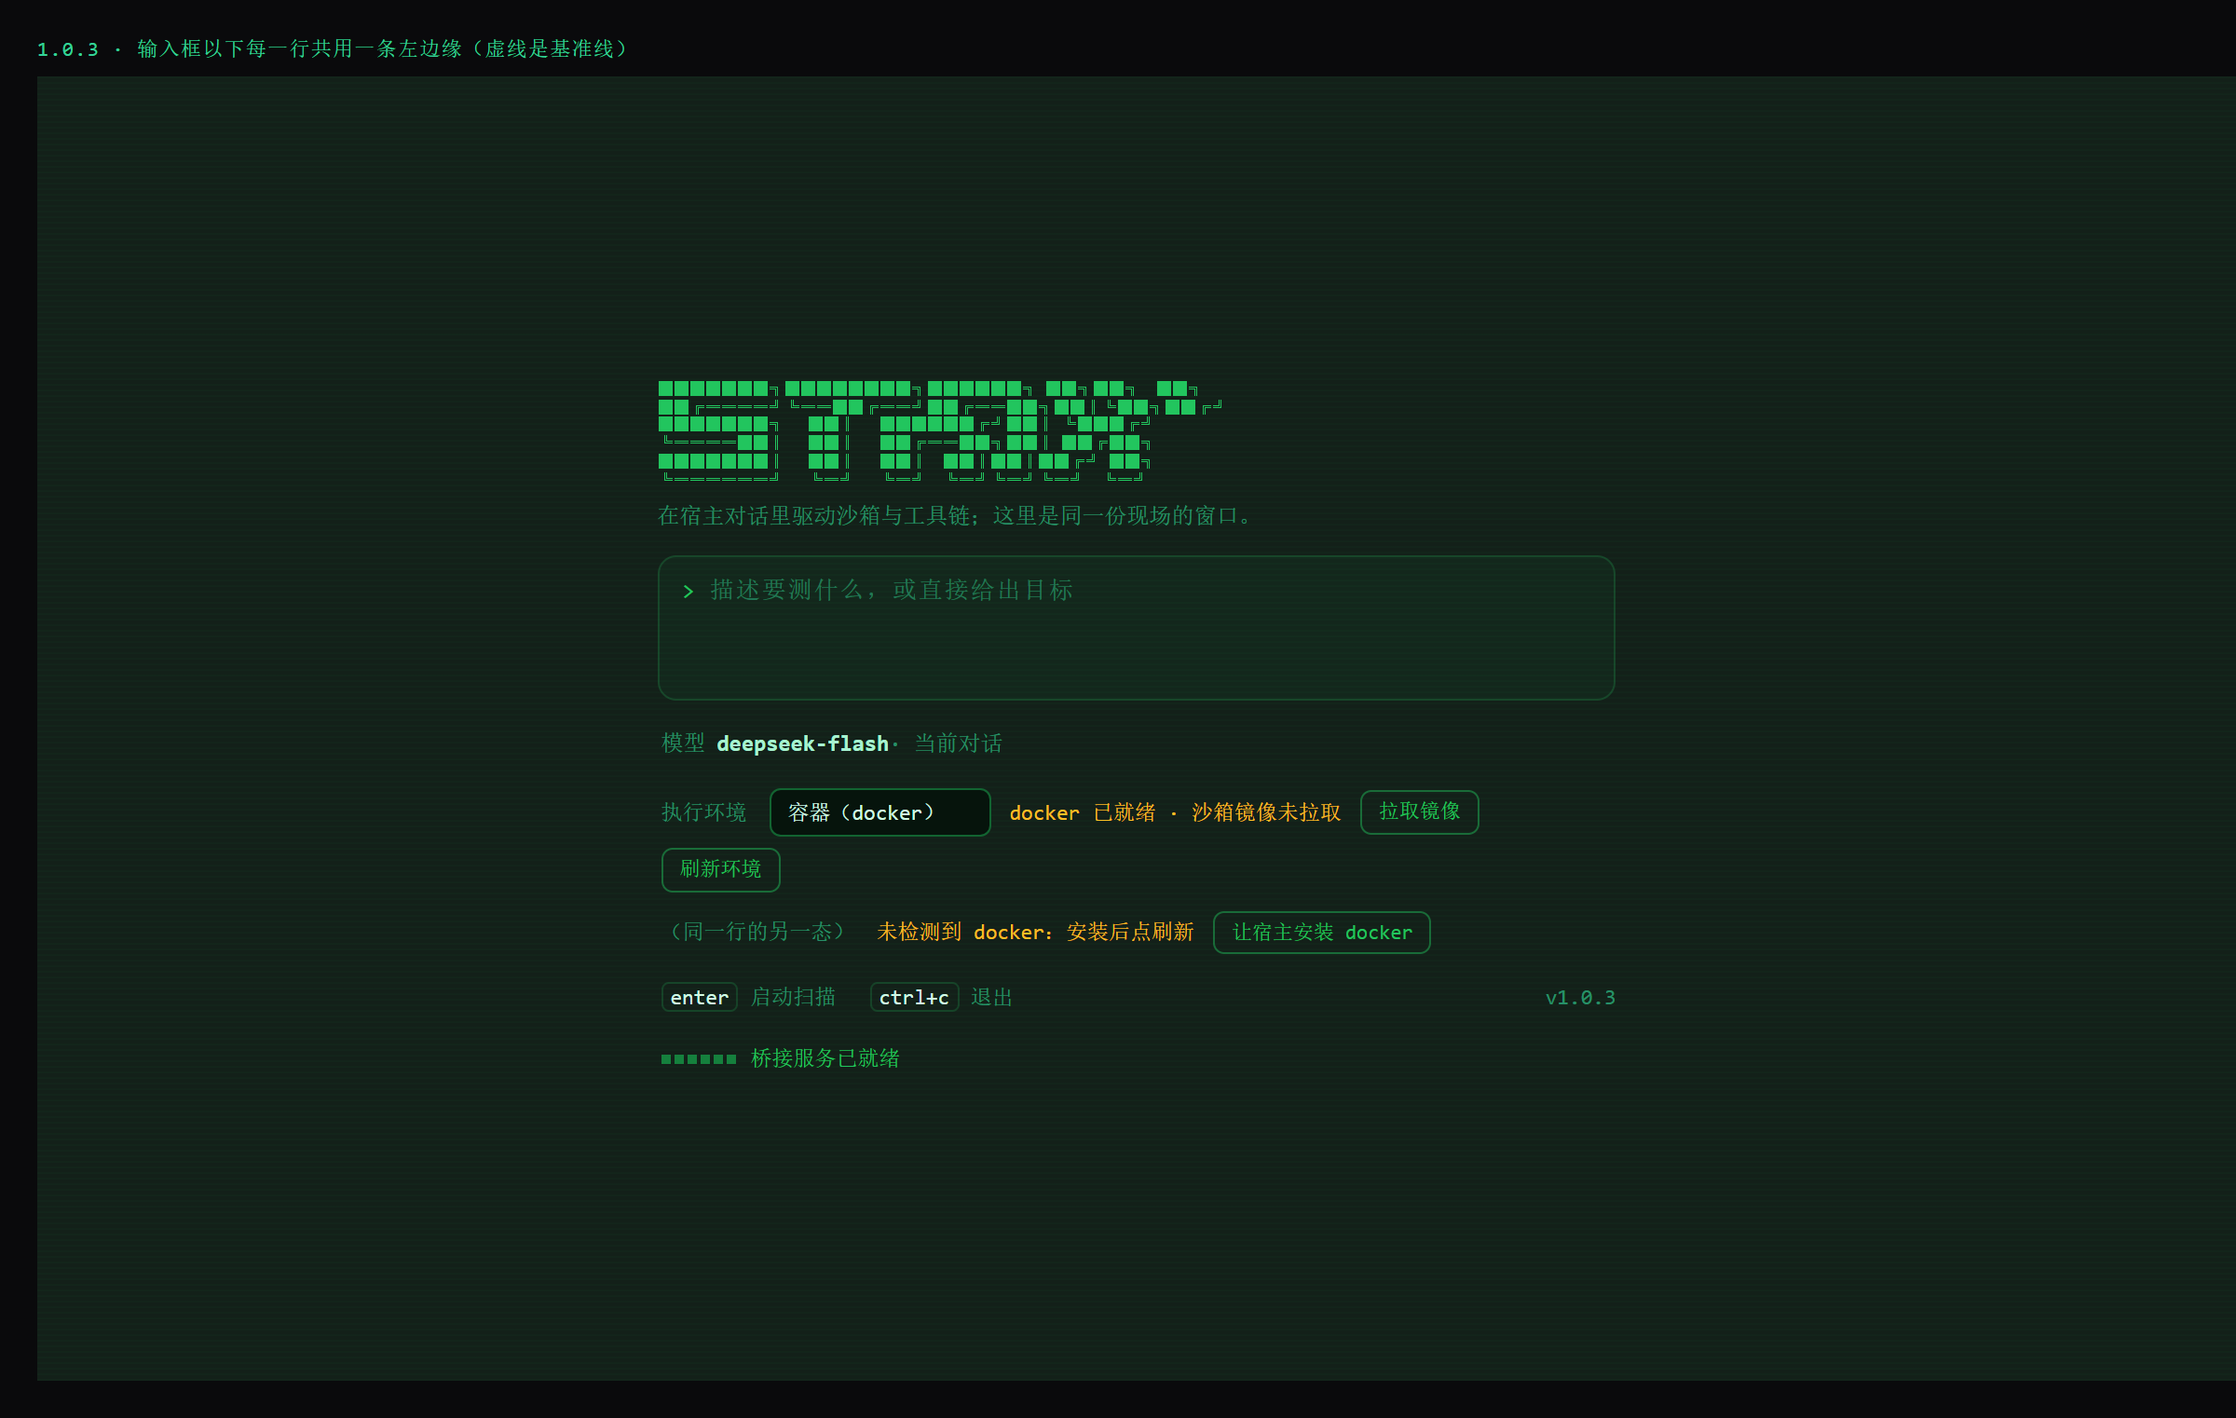
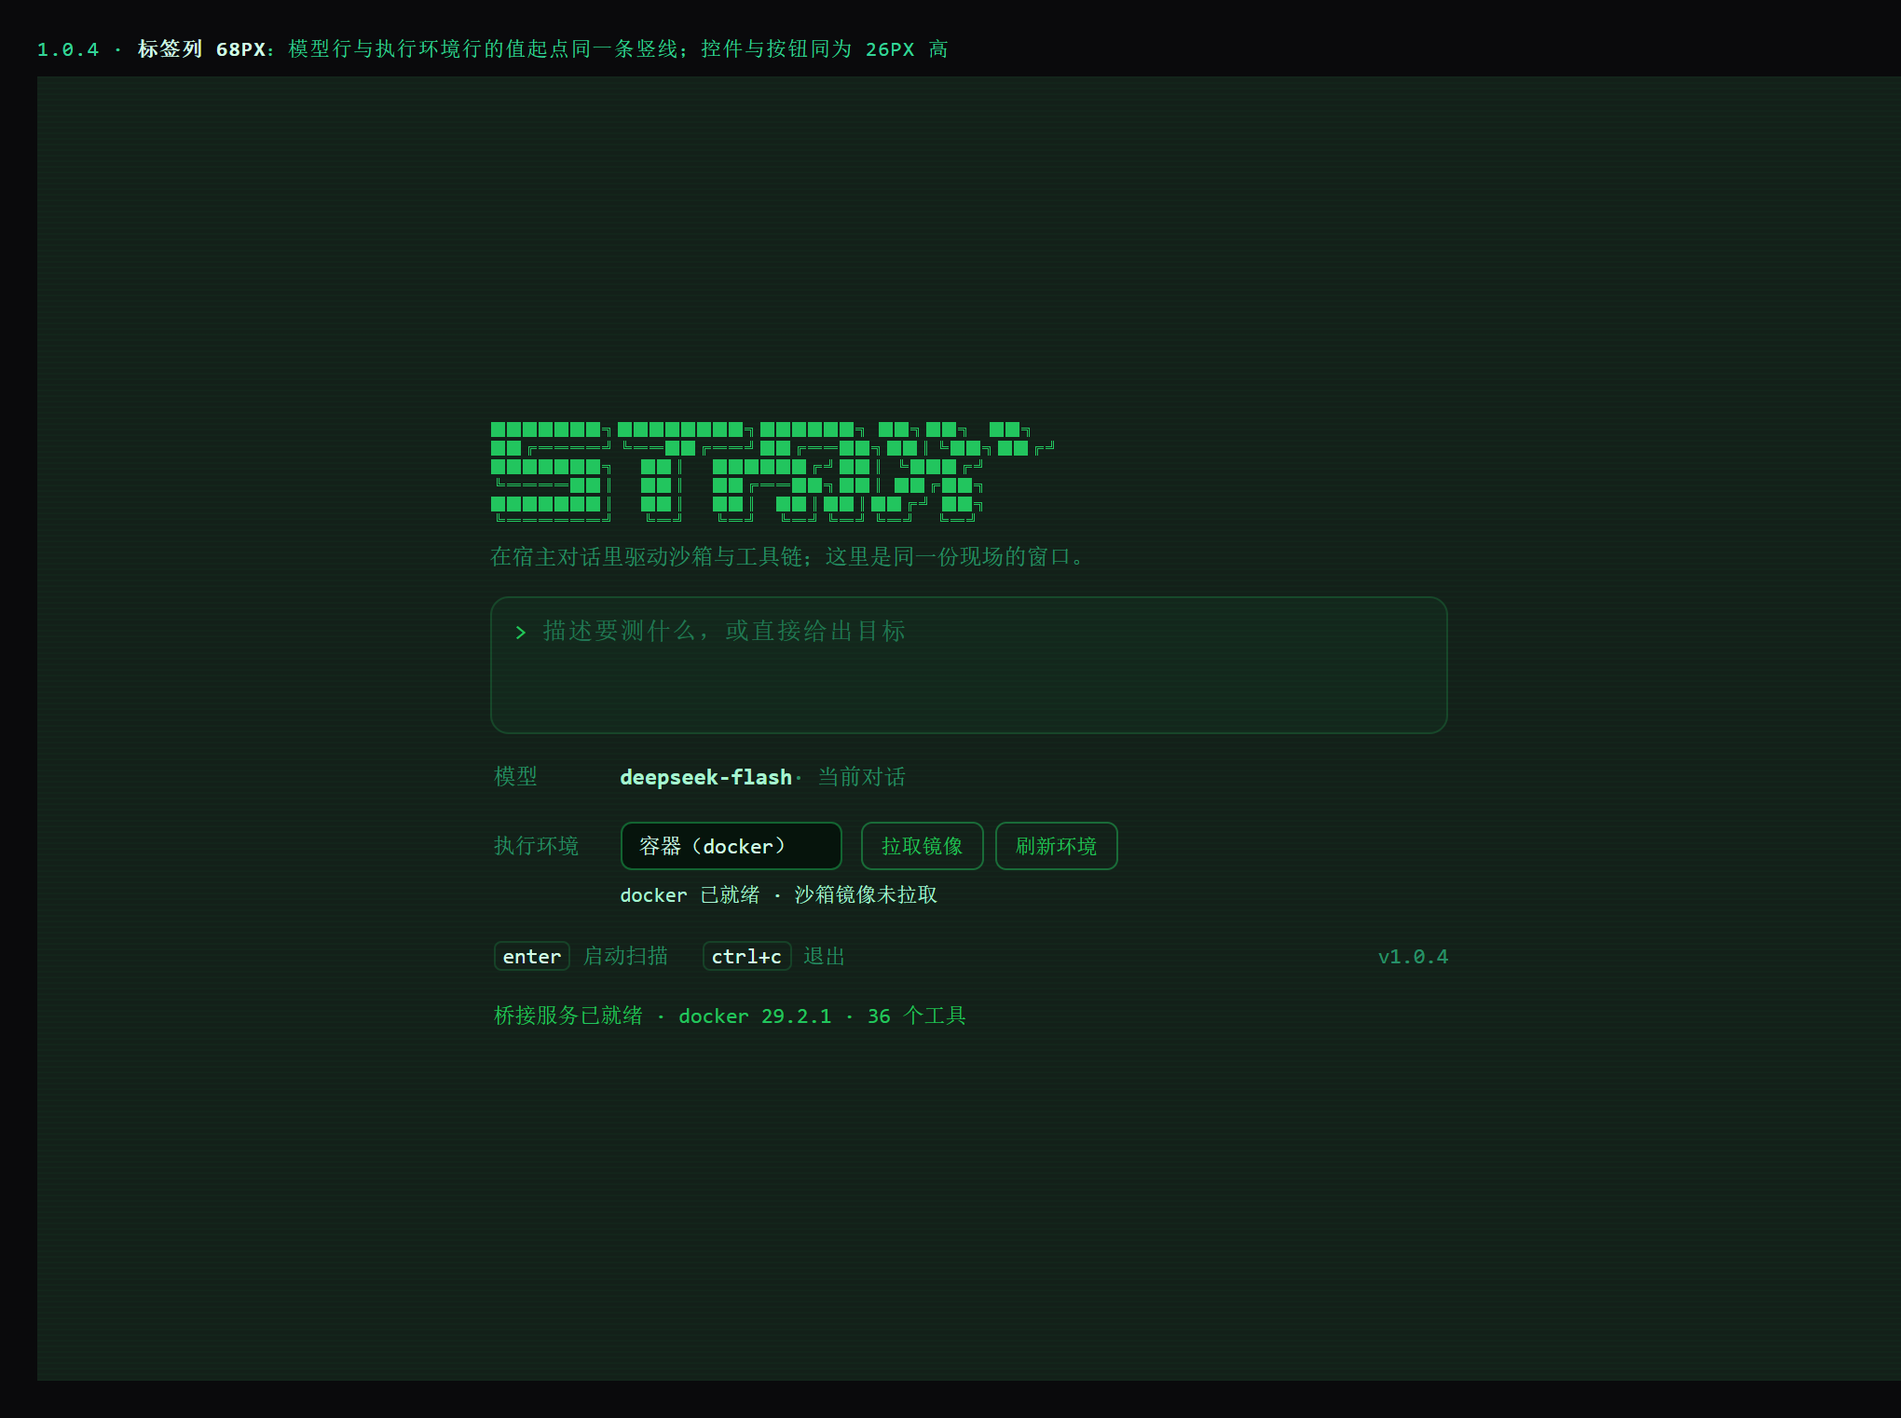
strix 1.0.4：环境行改成两行网格，标签列与控件高度统一
一、真机现象：「容器和文字不协调、没对齐、层次不齐」
- 原因有三，都在 1.0.3 的 flex 排布里：
  1. 一行 flex + wrap → 状态文字太长时「刷新环境」掉到下一行，形成参差的两行；
  2. select 的 padding 与按钮的 padding 不同 → 二者高度差 2px，基线看起来歪；
  3. 标签用 em 定宽，而 meta 行 12px、env 行 11.5px → 同样的 5.6em 差 7px，两行的值起点错开。

二、改法
- 环境行改成**两行网格**：
    「执行环境  [容器（docker）]   [拉取镜像] [刷新环境]」
    「          docker 已就绪 · 沙箱镜像未拉取      」
  标签列固定 `--sx-label-width: 68px`（用 px 不用 em），模型行与环境下拉共用这一列宽；
  状态用 `grid-column: 2 / -1` 落在控件下方、从控件左边缘开始。
- 列间距归零（`column-gap: 0`），动作按钮自己带 10px 左边距——否则 68 + 10 = 78px，
  比模型行的 68px 多出一截。
- 控件与按钮统一 `--sx-control-height: 26px`，按钮成组（`.astra-strix-env-actions`）不各自换行。
- 删掉 1.0.3 那套 flex 规则，避免两套并存。

三、真浏览器实测（dist/style.css，三种状态各一份）
  value column aligned: true | spread 0px（metaValueLeft 296 == selectLeft 296）
  controls equal height: true（select 26 / 按钮 26）
  buttons stay on one row: true（每态 buttonRows = 1）
  status aligned under the control: true（statusLeft == selectLeft，且在下拉下方）

验证
- fixes-1-0-3.test 扩到 15 项，新增 4 项守门：标签列必须是 px、网格不许有列间距、
  按钮同高且不换行、状态落第二列。
- tsc 干净；vitest 46 文件 298 项全绿；check-service tools=36；marketplace check 通过；
  node --test 165 pass；build + stamp verified；版本 1.0.4。
- 原型 docs/prototypes/strix-launch-aligned.html 重做（只保留一个真实的 noImage 态，
  不再用两行演示造成误读），截图同步更新。

diff --git a/docs/prototypes/strix-launch-aligned.html b/docs/prototypes/strix-launch-aligned.html
@@ -2,7 +2,7 @@
 <html lang="zh">
 <head>
 <meta charset="utf-8" />
-<title>Strix 首屏 · 对齐与环境下拉（1.0.3）</title>
+<title>Strix 首屏 · 对齐后的层级（1.0.4）</title>
 <style>
 	:root { --mono: ui-monospace, "SF Mono", Menlo, Consolas, monospace; }
 	* { box-sizing: border-box; }
@@ -14,12 +14,11 @@
 		--sx-dim: color-mix(in srgb, #34d399 62%, transparent);
 		--sx-placeholder: color-mix(in srgb, #34d399 46%, transparent);
 		--sx-rule: color-mix(in srgb, #22c55e 20%, transparent);
-		--sx-red: #f87171; --sx-amber: #fbbf24;
+		--sx-label-width: 68px; --sx-control-height: 26px;
 		position: relative; overflow: hidden;
-		width: 1180px; height: 700px; margin: 0 auto;
+		width: 1000px; height: 700px; margin: 0 auto;
 		background: color-mix(in srgb, #04120a 94%, #fff);
-		font-size: 13px; display: flex; flex-direction: column; padding: 24px;
-		color: var(--sx-text);
+		font-size: 13px; display: flex; flex-direction: column; padding: 24px; color: var(--sx-text);
 	}
 	.term::before { content: ""; position: absolute; inset: 0; pointer-events: none;
 		background-image: repeating-linear-gradient(to bottom, color-mix(in srgb, #22c55e 8%, transparent) 0 1px, transparent 1px 3px);
@@ -28,43 +27,46 @@
 
 	.launch { margin: auto; width: min(72ch, 100%); display: flex; flex-direction: column; gap: 14px; }
 	.launch > * { padding-left: 0; padding-right: 0; }
+
 	.mark { margin: 0; color: var(--sx-green); font-size: 8.5px; line-height: 1.15; white-space: pre; }
 	.tagline { margin: 6px 0 0; color: var(--sx-dim); font-size: 12px; }
 
 	.prompt { border: 1px solid var(--sx-rule); border-radius: 10px; padding: 10px 12px;
-		background: color-mix(in srgb, #22c55e 4%, transparent); display: flex; flex-direction: column; gap: 6px; }
+		background: color-mix(in srgb, #22c55e 4%, transparent); }
 	.prompt-row { display: flex; gap: 8px; align-items: flex-start; }
 	.caret { color: var(--sx-green); }
-	.input { flex: 1; min-height: 56px; color: var(--sx-placeholder); }
+	.input { flex: 1; min-height: 52px; color: var(--sx-placeholder); }
 
 	.meta, .env, .hints, .boot { margin: 0; padding-left: 2px; line-height: 1.6; }
+
 	.meta { display: flex; align-items: baseline; font-size: 12px; }
-	.meta-label { color: var(--sx-dim); margin-right: 6px; }
+	.meta-label, .env-label { display: inline-block; min-width: var(--sx-label-width); color: var(--sx-dim); }
 	.meta-name { color: var(--sx-text); font-weight: 600; }
 	.dim { color: var(--sx-dim); }
 
-	.env { display: flex; flex-wrap: wrap; align-items: center; gap: 6px 10px; font-size: 11.5px; }
-	.env-label { color: var(--sx-dim); margin-right: 2px; }
-	select { appearance: none; padding: 3px 24px 3px 9px; border: 1px solid color-mix(in srgb, var(--sx-green) 45%, transparent);
-		border-radius: 6px; background-color: color-mix(in srgb, #04120a 88%, transparent); color: #d1fae5;
-		font: inherit; font-size: 11.5px; }
-	.env-status { color: var(--sx-amber); }
+	.env { display: grid; grid-template-columns: var(--sx-label-width) auto minmax(0, 1fr);
+		align-items: center; column-gap: 0; row-gap: 6px; font-size: 11.5px; }
+	select { appearance: none; height: var(--sx-control-height); padding: 0 24px 0 9px;
+		border: 1px solid color-mix(in srgb, var(--sx-green) 45%, transparent); border-radius: 6px;
+		background-color: color-mix(in srgb, #04120a 88%, transparent); color: #d1fae5;
+		font: inherit; font-size: 11.5px; line-height: 1; }
+	.env-actions { display: flex; flex-wrap: wrap; align-items: center; gap: 6px; justify-self: start; margin-left: 10px; }
+	.action { display: inline-flex; align-items: center; height: var(--sx-control-height); padding: 0 10px;
+		border: 1px solid color-mix(in srgb, var(--sx-green) 45%, transparent); border-radius: 6px;
+		background: transparent; color: var(--sx-green); font: inherit; font-size: 11px; line-height: 1; white-space: nowrap; }
+	.env-status { grid-column: 2 / -1; color: var(--sx-amber); font-size: 11px; line-height: 1.5; }
 	.env[data-state="ready"] .env-status { color: var(--sx-green); }
-	.action { padding: 2px 9px; border: 1px solid color-mix(in srgb, var(--sx-green) 45%, transparent);
-		border-radius: 6px; background: transparent; color: var(--sx-green); font: inherit; font-size: 11px; }
 
 	.hints { display: flex; gap: 18px; font-size: 11.5px; color: var(--sx-dim); align-items: baseline; }
 	.key { color: var(--sx-white); border: 1px solid var(--sx-rule); border-radius: 4px; padding: 0 4px; }
 	.boot { font-size: 11.5px; color: var(--sx-green); }
-	.sweep { display: inline-flex; gap: 2px; margin-right: 8px; vertical-align: middle; }
-	.sweep > span { width: 5px; height: 5px; background: #15803d; }
 
-	.guide { position: absolute; left: 24px; top: 0; bottom: 0; width: 1px; border-left: 1px dashed #22c55e44; z-index: 2; }
-	.caption { width: 1180px; margin: 0 auto 8px; color: #34d399; font-size: 11px; letter-spacing: .06em; text-transform: uppercase; }
+	.caption { width: 1000px; margin: 0 auto 8px; color: #34d399; font-size: 11px; letter-spacing: .06em; text-transform: uppercase; }
+	.caption b { color: #d1fae5; font-weight: 600; }
 </style>
 </head>
 <body>
-	<div class="caption">1.0.3 · 输入框以下每一行共用一条左边缘（虚线是基准线）</div>
+	<div class="caption">1.0.4 · <b>标签列 68px</b>：模型行与执行环境行的值起点同一条竖线；控件与按钮同为 26px 高</div>
 	<div class="term">
 		<div class="launch">
 			<div>
@@ -86,20 +88,13 @@
 			<div class="env" data-state="noImage">
 				<span class="env-label">执行环境</span>
 				<select><option>容器（docker）</option></select>
+				<span class="env-actions"><button class="action">拉取镜像</button><button class="action">刷新环境</button></span>
 				<span class="env-status">docker 已就绪 · 沙箱镜像未拉取</span>
-				<button class="action">拉取镜像</button>
-				<button class="action">刷新环境</button>
 			</div>
 
-			<div class="env" data-state="noDocker" style="margin-top:-4px">
-				<span class="env-label">（同一行的另一态）</span>
-				<span class="env-status">未检测到 docker：安装后点刷新</span>
-				<button class="action">让宿主安装 docker</button>
-			</div>
+			<div class="hints"><span><span class="key">enter</span> 启动扫描</span><span><span class="key">ctrl+c</span> 退出</span><span class="dim" style="margin-left:auto">v1.0.4</span></div>
 
-			<div class="hints"><span><span class="key">enter</span> 启动扫描</span><span><span class="key">ctrl+c</span> 退出</span><span class="dim" style="margin-left:auto">v1.0.3</span></div>
-
-			<p class="boot"><span class="sweep"><span></span><span></span><span></span><span></span><span></span><span></span></span>桥接服务已就绪</p>
+			<p class="boot">桥接服务已就绪 · docker 29.2.1 · 36 个工具</p>
 		</div>
 	</div>
 </body>

diff --git a/abilities/plugins/strix/src/style.css b/abilities/plugins/strix/src/style.css
@@ -1615,9 +1615,11 @@
 	color: var(--sx-amber);
 }
 
+/* 标签列宽与环境下拉的标签列共用一个变量：两行的值起点才会在一条竖线上。 */
 .astra-strix-meta-label {
+	display: inline-block;
+	min-width: var(--sx-label-width, 68px);
 	color: var(--sx-dim);
-	margin-right: 6px;
 }
 
 .astra-strix-meta-name {
@@ -1640,30 +1642,49 @@
 }
 
 /* ---- 环境下拉：三态（host / 缺 docker / 缺镜像 / 就绪） ----------------------
-   之前 select 背景透明压在绿色上，字看不清。现在给它自己的深色底与亮字，
-   原生下拉列表也用同一套色（option 单独设，否则展开后是系统白底深字）。 */
+   排布改成两行网格，而不是一条会换行的 flex：
+     「执行环境  [容器（docker）]        [拉取镜像] [刷新环境]」
+     「          docker 已就绪 · 沙箱镜像未拉取                」
+   为什么：flex 换行时"刷新环境"会掉到下一行、按钮与下拉高矮不一，看起来层次不齐（真机截图）。
+   标签列用固定宽度，与上面"模型"那一行的值起点对齐。 */
+.astra-strix-launch {
+	/* 用 px 而不是 em：em 按各自字号解析，两个标签的字号不同会错开 7px。 */
+	--sx-label-width: 68px;
+	--sx-control-height: 26px;
+}
+
+.astra-strix-meta-label,
+.astra-strix-env-label {
+	display: inline-block;
+	min-width: var(--sx-label-width);
+	color: var(--sx-dim);
+}
+
 .astra-strix-env {
-	display: flex;
-	flex-wrap: wrap;
+	display: grid;
+	grid-template-columns: var(--sx-label-width) auto minmax(0, 1fr);
 	align-items: center;
-	gap: 6px 10px;
+	/* 列间距必须为 0：否则 68px 标签列 + 10px gap = 78px，比模型行的 68px 多出一截。 */
+	column-gap: 0;
+	row-gap: 6px;
 	font-size: 11.5px;
 }
 
 .astra-strix-env-label {
-	color: var(--sx-dim);
-	margin-right: 2px;
+	margin: 0;
 }
 
 .astra-strix-env-select {
 	appearance: none;
-	padding: 3px 24px 3px 9px;
+	height: var(--sx-control-height);
+	padding: 0 24px 0 9px;
 	border: 1px solid color-mix(in srgb, var(--sx-green) 45%, transparent);
 	border-radius: 6px;
 	background-color: color-mix(in srgb, #04120a 88%, transparent);
 	color: var(--sx-white, #d1fae5);
 	font: inherit;
 	font-size: 11.5px;
+	line-height: 1;
 	cursor: pointer;
 	background-image: linear-gradient(45deg, transparent 50%, var(--sx-green) 50%),
 		linear-gradient(135deg, var(--sx-green) 50%, transparent 50%);
@@ -1682,14 +1703,24 @@
 	outline-offset: 1px;
 }
 
+.astra-strix-env-actions {
+	display: flex;
+	flex-wrap: wrap;
+	align-items: center;
+	gap: 6px;
+	justify-self: start;
+	margin-left: 10px;
+}
+
 .astra-strix-env-status {
+	/* 第二行：从下拉框的起点开始，与控件左边缘对齐，而不是从标签列开始。 */
+	grid-column: 2 / -1;
 	color: var(--sx-dim);
+	font-size: 11px;
+	line-height: 1.5;
 }
 
-.astra-strix-env[data-state="noDocker"] .astra-strix-env-status {
-	color: var(--sx-amber);
-}
-
+.astra-strix-env[data-state="noDocker"] .astra-strix-env-status,
 .astra-strix-env[data-state="noImage"] .astra-strix-env-status {
 	color: var(--sx-amber);
 }
@@ -1699,20 +1730,26 @@
 }
 
 .astra-strix-env-action {
-	padding: 2px 9px;
+	display: inline-flex;
+	align-items: center;
+	height: var(--sx-control-height);
+	padding: 0 10px;
 	border: 1px solid color-mix(in srgb, var(--sx-green) 45%, transparent);
 	border-radius: 6px;
 	background: transparent;
 	color: var(--sx-green);
 	font: inherit;
 	font-size: 11px;
+	line-height: 1;
 	cursor: pointer;
+	white-space: nowrap;
 }
 
 .astra-strix-env-action:hover {
 	border-color: var(--sx-green);
 	background: color-mix(in srgb, var(--sx-green) 12%, transparent);
 }
+
 
 /* 拖拽手柄默认几乎不可见：它占 8px 命中区，但视觉上只在 hover/focus 时出现，
    否则会像一条悬在输入框上方的绿线（真机截图里就是这样）。 */

diff --git a/abilities/plugins/strix/src/features/scan-console/components/launch-screen.tsx b/abilities/plugins/strix/src/features/scan-console/components/launch-screen.tsx
@@ -190,25 +190,27 @@ export function LaunchScreen({
 						<option value="docker">{t("env.docker")}</option>
 						<option value="auto">{t("env.auto")}</option>
 					</select>
+					<span className="astra-strix-env-actions">
+						{envState === "noDocker" ? (
+							<button type="button" className="astra-strix-env-action" onClick={() => onInstallDocker?.()}>
+								{t("env.install")}
+							</button>
+						) : null}
+						{envState === "noImage" && onPullImage ? (
+							<button type="button" className="astra-strix-env-action" onClick={() => void onPullImage()}>
+								{t("env.pull")}
+							</button>
+						) : null}
+						<button type="button" className="astra-strix-env-action" onClick={() => onRefreshEnvironment?.()}>
+							{t("env.refresh")}
+						</button>
+					</span>
 					<span className="astra-strix-env-status">
 						{envState === "host" ? t("env.statusHost") : null}
 						{envState === "noDocker" ? t("env.statusNoDocker") : null}
 						{envState === "noImage" ? t("env.statusNoImage") : null}
 						{envState === "ready" ? t("env.statusReady") : null}
 					</span>
-					{envState === "noDocker" ? (
-						<button type="button" className="astra-strix-env-action" onClick={() => onInstallDocker?.()}>
-							{t("env.install")}
-						</button>
-					) : null}
-					{envState === "noImage" && onPullImage ? (
-						<button type="button" className="astra-strix-env-action" onClick={() => onPullImage()}>
-							{t("env.pull")}
-						</button>
-					) : null}
-					<button type="button" className="astra-strix-env-action" onClick={() => onRefreshEnvironment?.()}>
-						{t("env.refresh")}
-					</button>
 				</div>
 				<div className="astra-strix-hints">
 					<span className="astra-strix-hints-left">

diff --git a/abilities/plugins/strix/src/test/fixes-1-0-3.test.ts b/abilities/plugins/strix/src/test/fixes-1-0-3.test.ts
@@ -55,6 +55,35 @@ describe("the first screen is one column again", () => {
 	});
 });
 
+describe("the hierarchy lines up", () => {
+	it("pins the label column in px, not em", () => {
+		// em 按各自字号解析：meta 12px、env 11.5px → 同样的 5.6em 差 7px，两行值起点错开。
+		expect(css).toContain("--sx-label-width: 68px");
+		expect(css).not.toContain("--sx-label-width: 5.6em");
+	});
+
+	it("drops the grid column gap so the value column matches the model row", () => {
+		const block = /\.astra-strix-env \{([^}]*)\}/s.exec(css)?.[1] ?? "";
+		expect(block).toContain("grid-template-columns: var(--sx-label-width)");
+		expect(block).toContain("column-gap: 0");
+		expect(block).not.toMatch(/gap:\s*6px 10px/);
+	});
+
+	it("keeps the buttons in one row and the same height as the select", () => {
+		// 之前按钮各自换行、与下拉高矮不一，正是"层次不齐"。
+		expect(css).toContain("--sx-control-height: 26px");
+		const action = /\.astra-strix-env-action \{([^}]*)\}/s.exec(css)?.[1] ?? "";
+		expect(action).toContain("height: var(--sx-control-height)");
+		expect(action).toContain("white-space: nowrap");
+		expect(launch).toContain("astra-strix-env-actions");
+	});
+
+	it("puts the status under the control, not under the label", () => {
+		const status = /\.astra-strix-env-status \{([^}]*)\}/s.exec(css)?.[1] ?? "";
+		expect(status).toContain("grid-column: 2 / -1");
+	});
+});
+
 describe("the environment selector is readable", () => {
 	it("gives the control its own background and light text", () => {
 		const block = /\.astra-strix-env-select\s*\{([^}]*)\}/s.exec(css)?.[1] ?? "";
